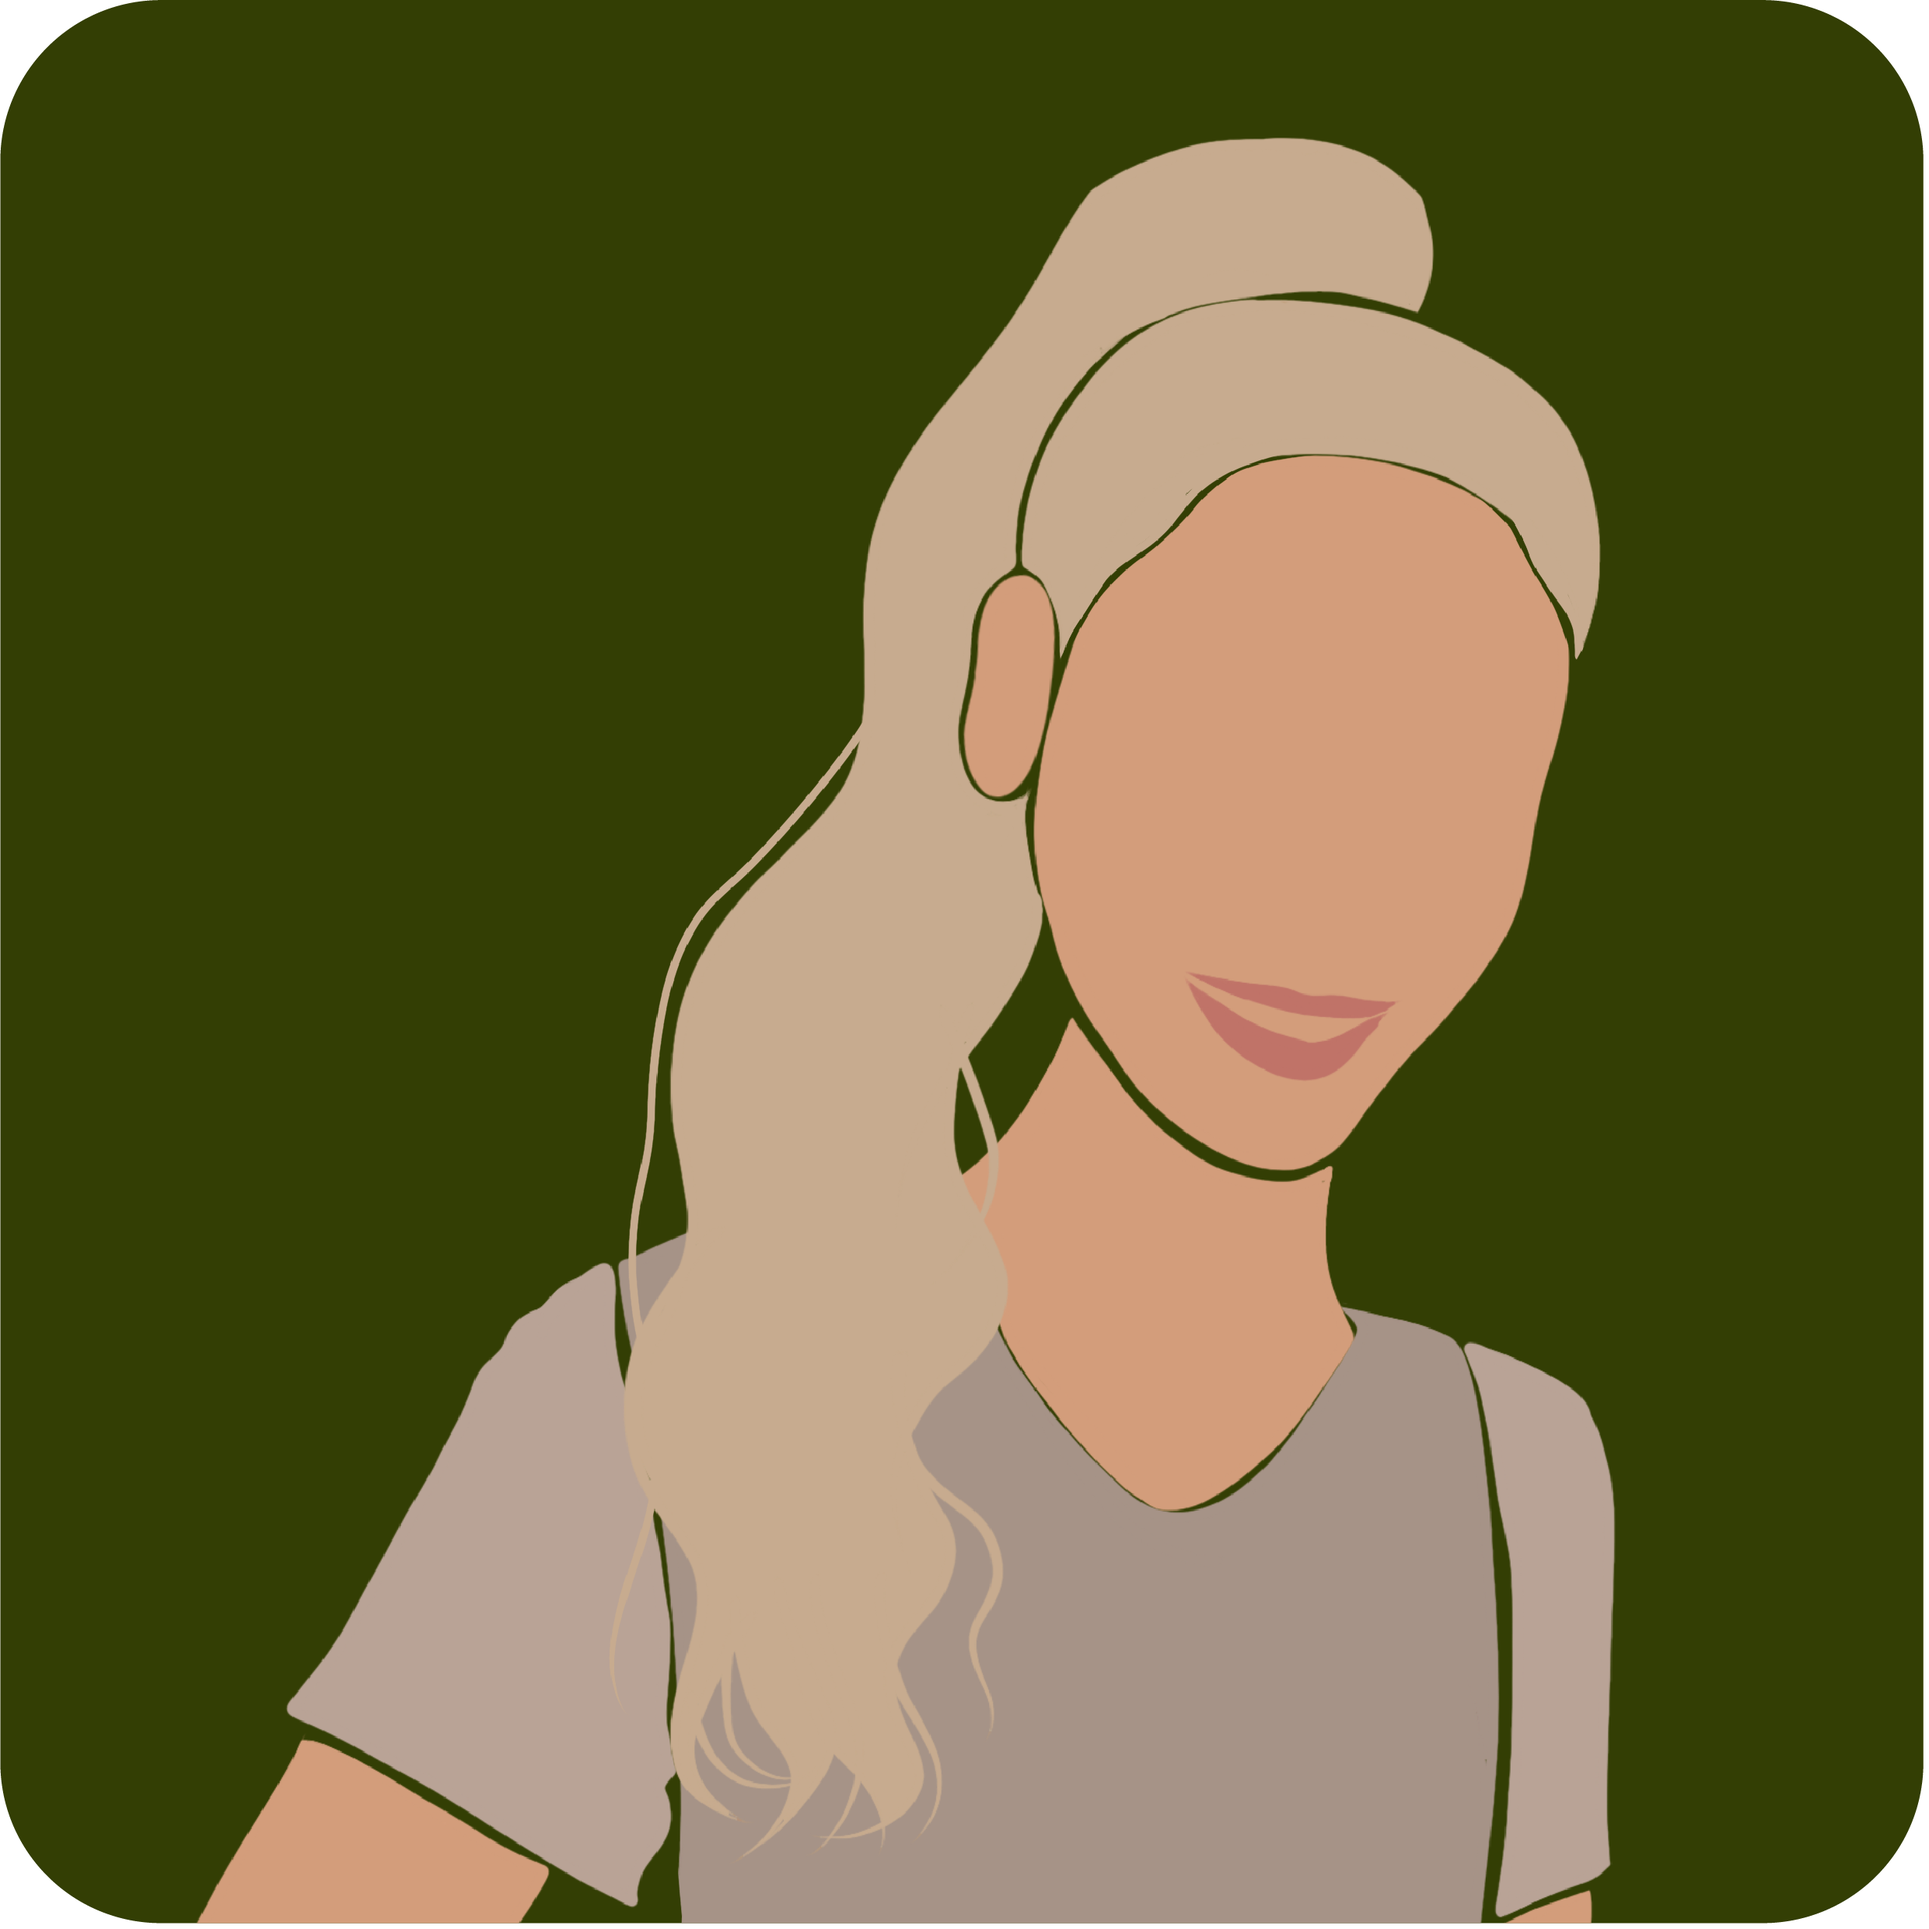
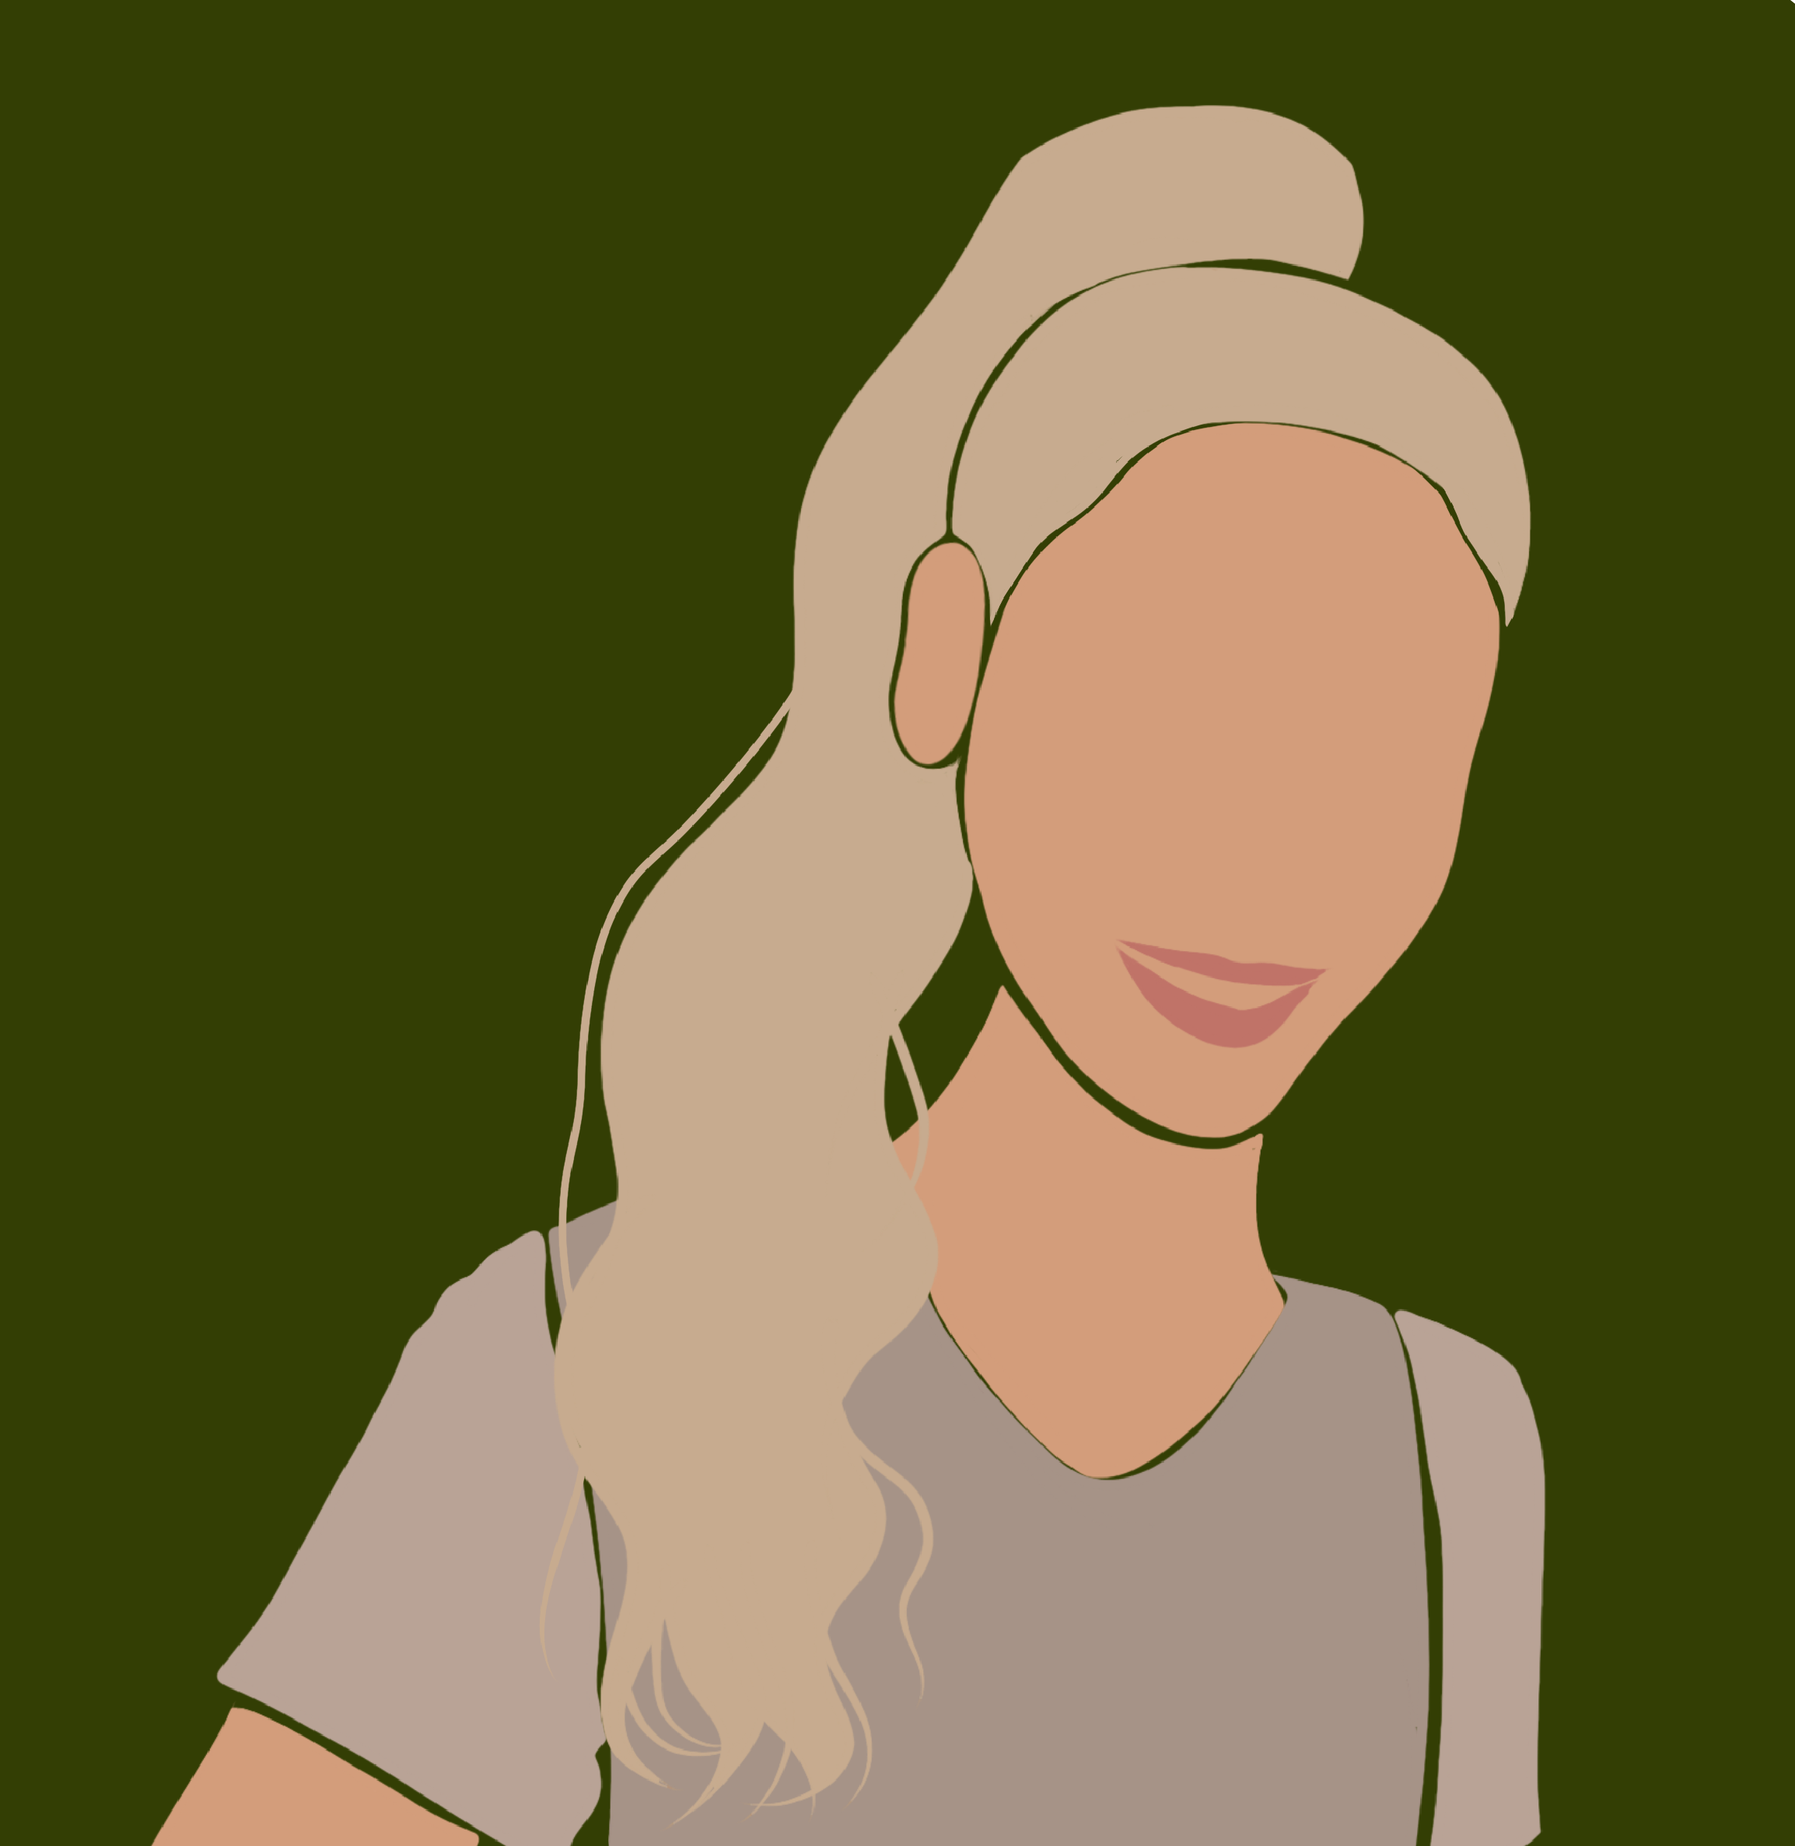
About page almost done.

diff --git a/src/Krompaco.RecordCollector.Web/wwwroot/simple.min.css b/src/Krompaco.RecordCollector.Web/wwwroot/simple.min.css
@@ -225,7 +225,7 @@ header > nav {
 	header > nav a, header > nav a:visited {
 	/*	margin: 0 .5rem 1rem .5rem;
 		border: 1px solid var(--border);
-		border-radius: 5px*/;
+		border-radius: 5px*/
 		color: var(--text);
 		display: inline-block;
 		padding: .1rem 1rem;
@@ -423,6 +423,33 @@ input[type=radio] {
 		width: 100%
 	}
 }
+#Portrait-josefin{
+	border-radius: 50%;
+	max-width: 15rem;
+}
+#flex-container{
+		margin-top: 5rem;
+		display: flex;
+		flex-wrap: wrap;
+		gap: 7rem;
+		align-items: flex-start;
+}
+
+#vertical-line{
+	border: 0.5px solid black;
+	border-width: thin !important;
+	height:15rem;
+}
+
+#about{
+font-weight: bold;
+text-align: center;
+}
+#mountain{
+	background-repeat: no-repeat;
+	background-size: cover;
+	background-position: center center;
+}
 
 input[type=checkbox], input[type=radio] {
 	width: auto
@@ -449,29 +476,6 @@ mark {
 	background-color: var(--marked)
 }
 
-#kalle {
-	float: right;
-	right: 40%;
-	position: relative;
-	margin: revert;
-	margin-top: -20%;
-}
-img, video {
-	max-width: 100%;
-	height: auto;
-	border-radius: 50%;
-	margin-top: 15%;
-	max-width: 30%;
-	max-width: 30%;
-	margin-bottom: 200%;
-	margin-top: -35%;
-}
-#vl {
-	border-left: 1px solid black;
-	height: 250px;
-	margin-left:50%;
-	margin-top:30px;
-}
 
 figure {
 	margin: 0;
@@ -570,36 +574,23 @@ progress {
 
 
 @media (max-width: 1121px) {
-	#vl {
-		min-height:12px;
-	}
+	
 
-	img {
-		margin-left: 12.5%;
-	}
-
-	#kalle {
-		margin-right: -4%;
-	}
 	}
 
 
 	@media (max-width: 720px) {
 
-		#vl {
-			min-height: 12px;
-		}
-
-		img {
-			margin-top: -70%;
-			margin-left: 12.5%;
-		}
-
-		#kalle {
-			margin-top: -55%;
-			margin-right: -4%;
-		}
-
+#vertical-line{
+	display: none;
+	
+}
+#flex-container{
+	margin-left:15%;
+}
+#about-content{
+	margin-left:25%;
+}
 
 		
 		}

diff --git a/content/record-collector-dotnet/pages/about.html b/content/record-collector-dotnet/pages/about.html
@@ -4,9 +4,19 @@ title = "ABOUT"
 description = ""
 weight = 100
 +++
+<h2 id="about">About</h2>
+    <div id="flex-container">
+    <img id="Portrait-josefin" src="/content/record-collector-dotnet/files/Portrait.png" alt="Josefin">
+   <p id="vertical-line"></p>
+  
+<div id="about-content">
+    <h5>Överskrift</h5>
+    <p>hejhejhej</p>
+    <h5>Överskrift</h5>
+    <p>hejhejhej</p>
+</div>
+</div>
 
-
-![picture of josefin](https://josefinunefaldt.netlify.app/files/portrait.png)
 
 
 

diff --git a/content/record-collector-dotnet/_index.html b/content/record-collector-dotnet/_index.html
@@ -6,3 +6,21 @@ keywords = "C# HTML"
 
 
 LANDING PAGE
+<style>
+    body{
+      background-image : url('/content/record-collector-dotnet/files/mountain.jpg') ;
+      background-repeat: no-repeat;
+        background-size: cover;
+        background-position: center center;
+    }
+ background-image::after{
+   position: absolute;
+   content: '';
+   display: block;
+   top: 0;
+   left: 0;
+   right: 0;
+   bottom: 0;
+   background: rgba(255,255,255,.5);
+}
+    </style>

diff --git a/content/record-collector-dotnet/pages/education.html b/content/record-collector-dotnet/pages/education.html
@@ -1,6 +1,6 @@
 +++
-linkTitle = "RESUME"
-title = "RESUME"
+linkTitle = "EDUCATION"
+title = "EDUCATION"
 description = ""
 weight = 10
 +++
